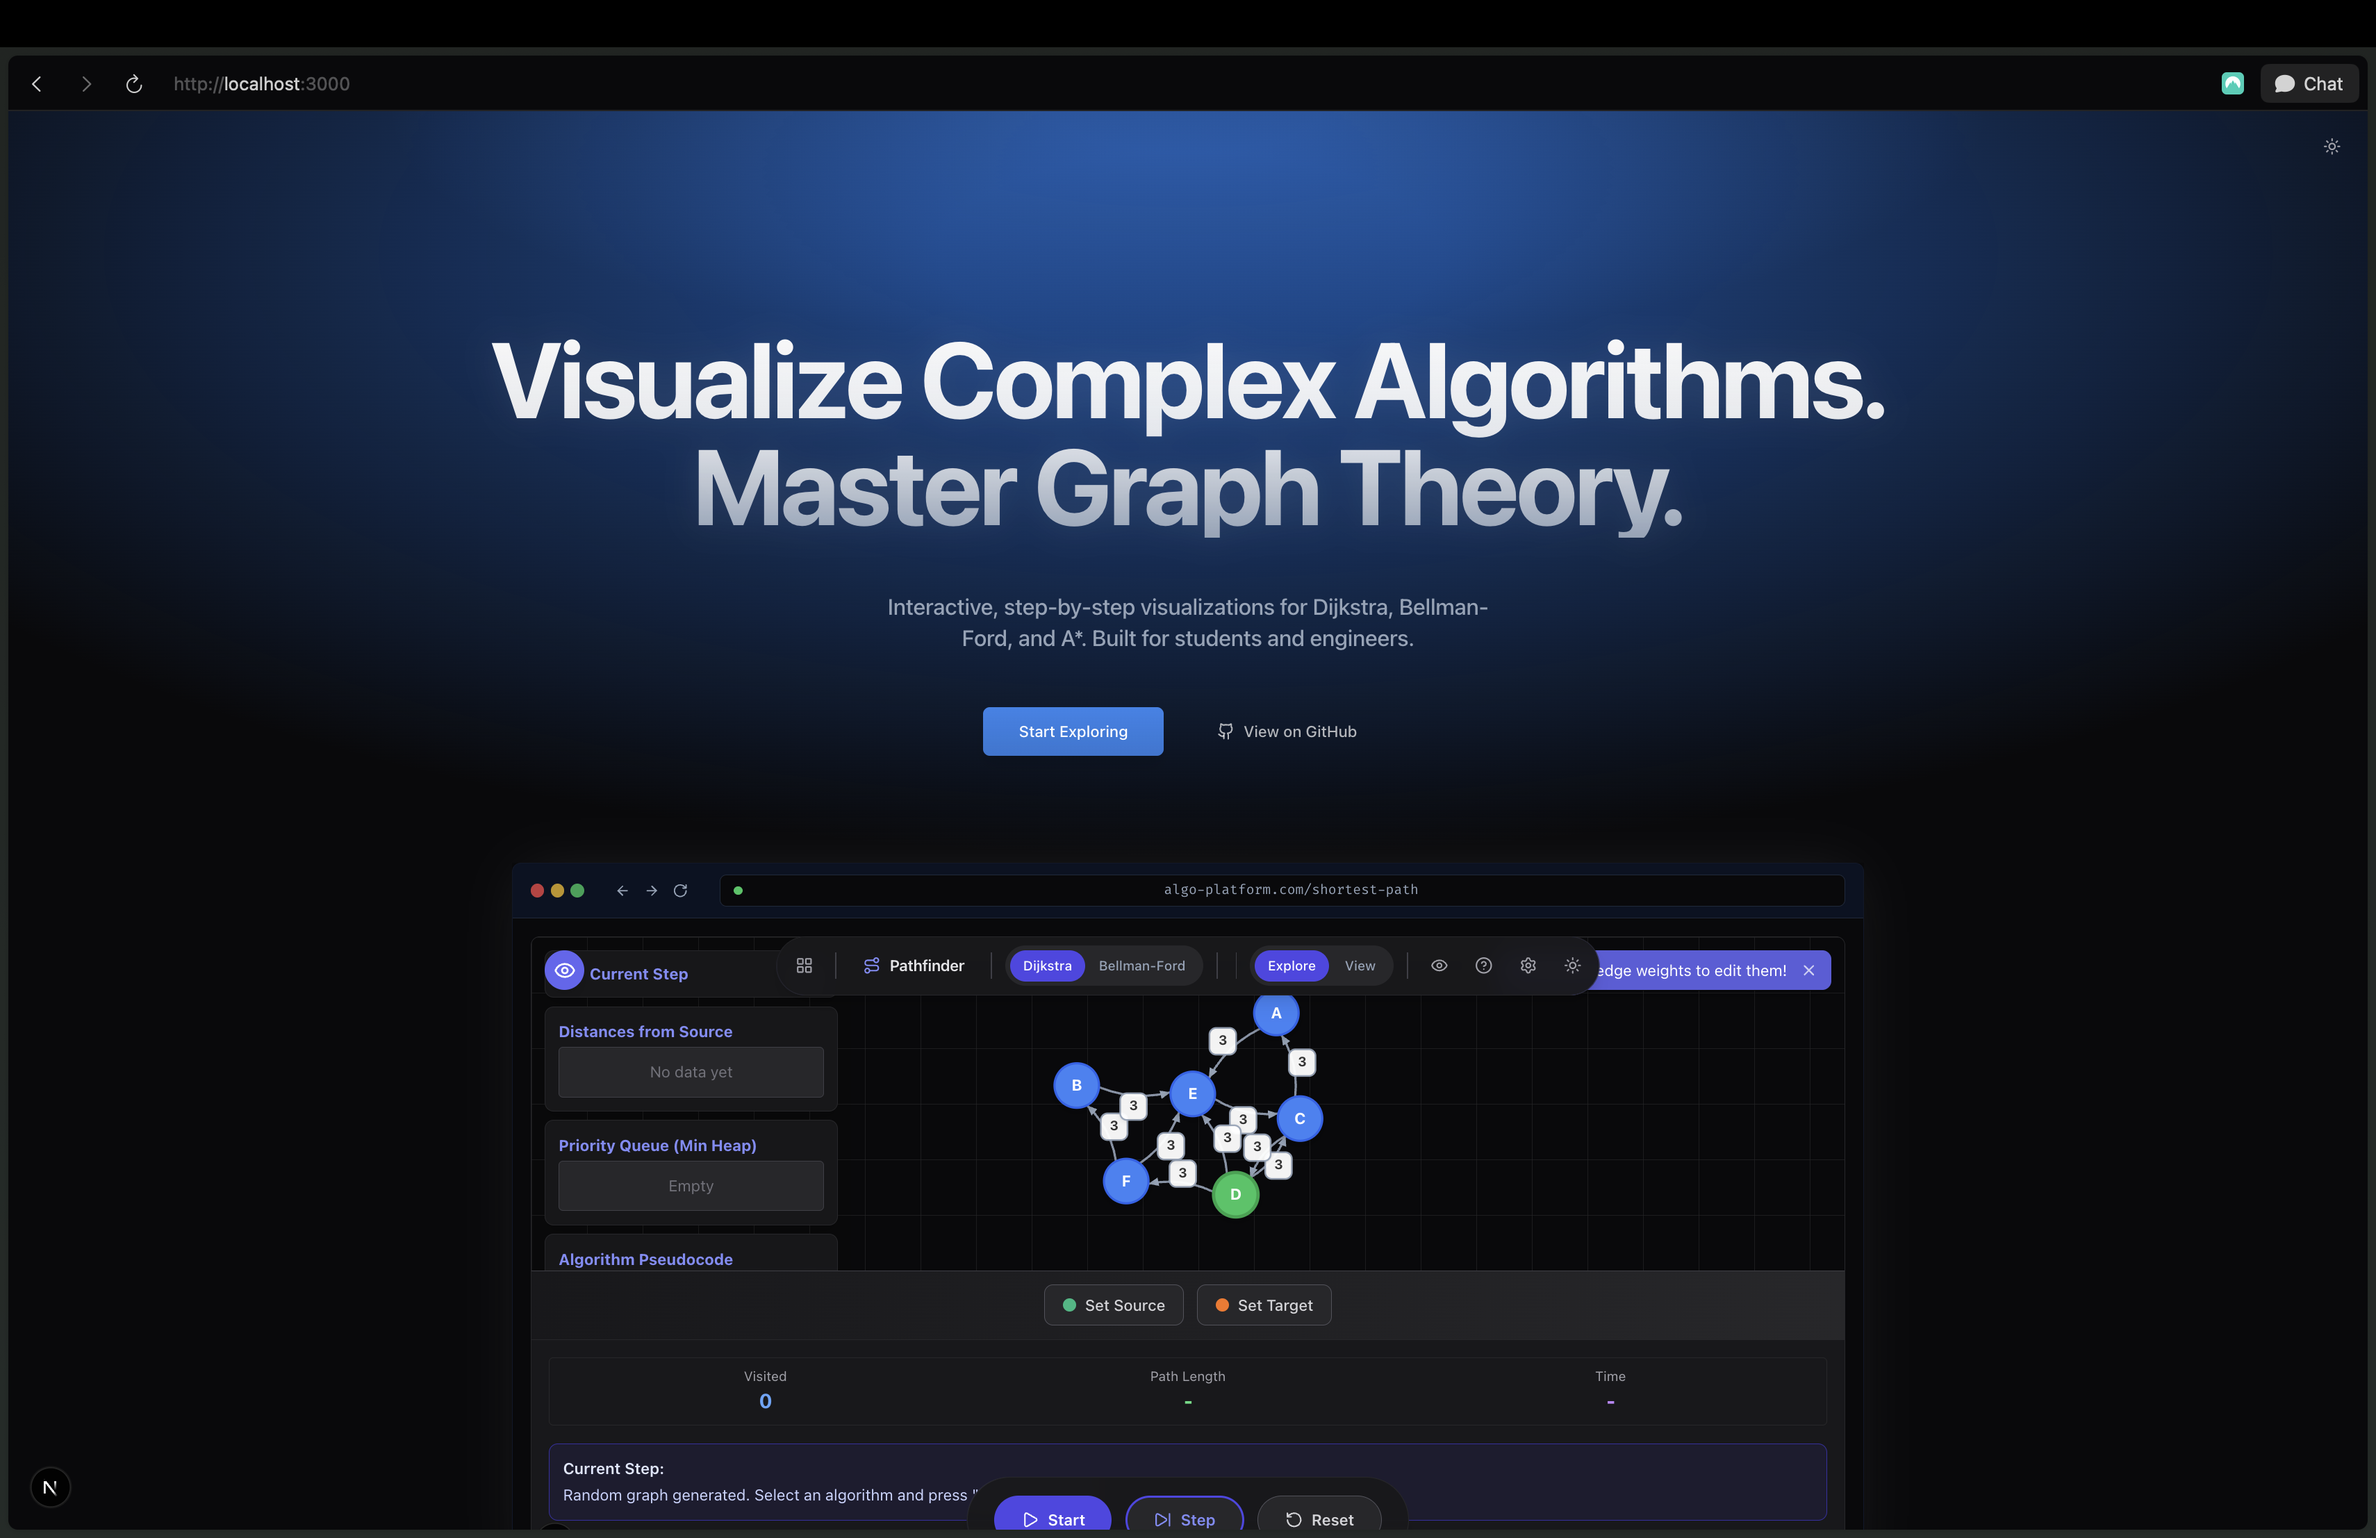
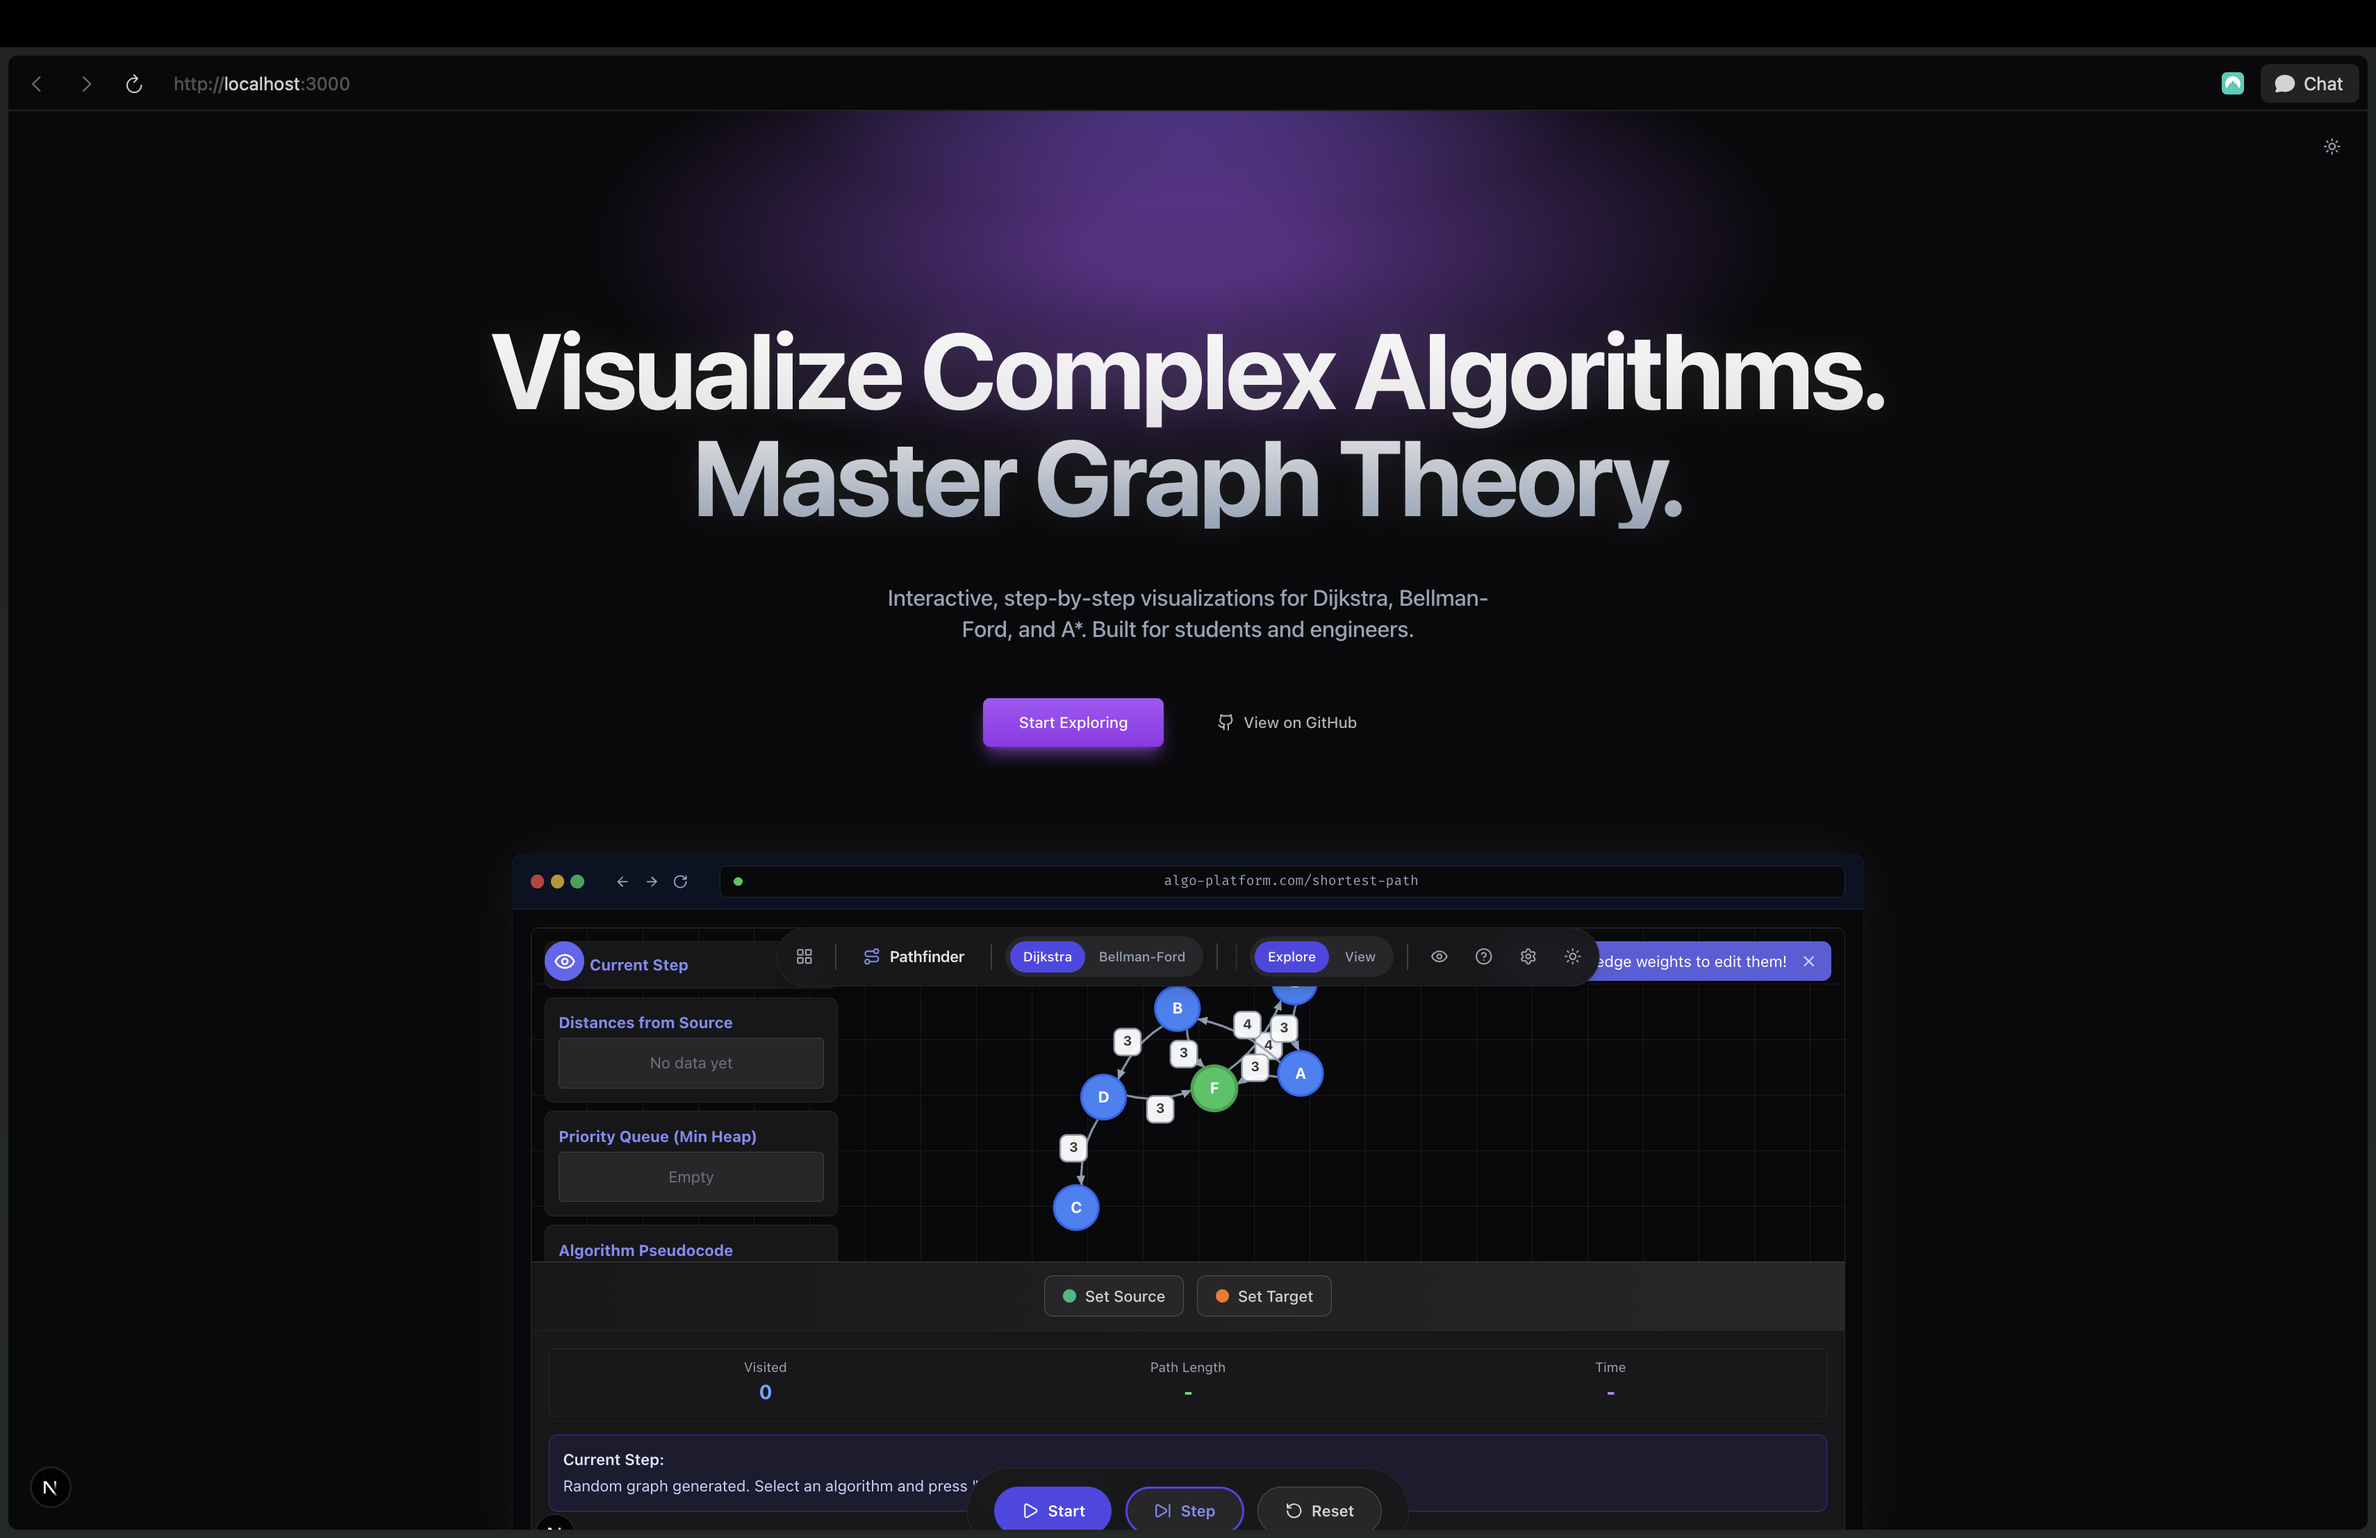
color change

diff --git a/components/landing/HeroSection.jsx b/components/landing/HeroSection.jsx
@@ -3,7 +3,6 @@
 import { cn } from "@/lib/utils";
 import { Button } from "@/components/ui/button";
 import { BrowserFrame } from "@/components/ui/browser-frame";
-import { Glow } from "@/components/ui/glow";
 import { Github as GitHubIcon } from "lucide-react";
 import { useState, useEffect } from "react";
 
@@ -96,9 +95,9 @@ export function HeroSection() {
               onClick={handleStartExploring}
               size="lg"
               className={cn(
-                "bg-gradient-to-b from-brand to-brand/90 dark:from-brand/90 dark:to-brand/80",
-                "hover:from-brand/95 hover:to-brand/85 dark:hover:from-brand/80 dark:hover:to-brand/70",
-                "text-white shadow-lg",
+                "bg-gradient-to-b from-purple-500 to-purple-600 dark:from-purple-500 dark:to-purple-600",
+                "hover:from-purple-600 hover:to-purple-700 dark:hover:from-purple-600 dark:hover:to-purple-700",
+                "text-white shadow-lg shadow-purple-500/50",
                 "transition-all duration-300"
               )}
             >
@@ -111,6 +110,7 @@ export function HeroSection() {
               variant="ghost"
               className={cn(
                 "text-foreground/80 dark:text-foreground/70",
+                "hover:bg-purple-500/10 hover:text-purple-500 dark:hover:bg-purple-500/20 dark:hover:text-purple-400",
                 "transition-all duration-300"
               )}
             >
@@ -177,12 +177,20 @@ export function HeroSection() {
           </div>
         </div>
       </div>
-      {/* Background Glow */}
+      {/* Background Purple Gradient Glow */}
       <div className="absolute inset-0 overflow-hidden pointer-events-none">
-        <Glow
-          variant="above"
+        <div
           className={cn(
-            "transition-all duration-700 ease-out",
+            "absolute left-1/2 h-[512px] w-[60%] -translate-x-1/2 -top-[128px] scale-[2.5] rounded-[50%] transition-all duration-700 ease-out",
+            "bg-[radial-gradient(ellipse_at_center,_rgba(168,85,247,0.5)_10%,_rgba(168,85,247,0)_60%)] sm:h-[512px]",
+            isMounted ? "opacity-100 scale-100" : "opacity-0 scale-95"
+          )}
+          style={{ transitionDelay: "700ms" }}
+        />
+        <div
+          className={cn(
+            "absolute left-1/2 h-[256px] w-[40%] -translate-x-1/2 -top-[128px] scale-[2] rounded-[50%] transition-all duration-700 ease-out",
+            "bg-[radial-gradient(ellipse_at_center,_rgba(139,92,246,0.3)_10%,_rgba(139,92,246,0)_60%)] sm:h-[256px]",
             isMounted ? "opacity-100 scale-100" : "opacity-0 scale-95"
           )}
           style={{ transitionDelay: "700ms" }}
